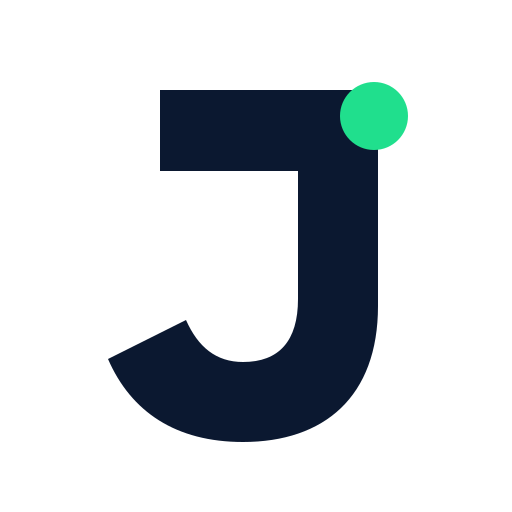
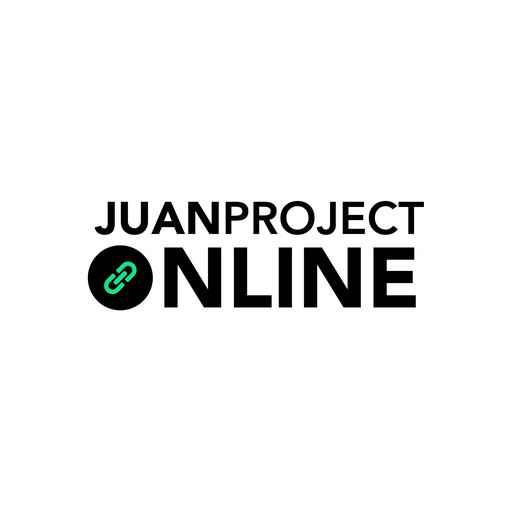
Patch: client portal, deliverables, branding, shop UI

Changed region(s): [[0.1562, 0.1562, 0.8438, 0.875]]

diff --git a/workspace/index.html b/workspace/index.html
@@ -949,6 +949,23 @@
       .catalog-manager-simple{display:block!important;width:100%;}
       .catalog-manager-simple .table-card{width:100%;margin-bottom:16px;}
       @media(max-width:900px){#view-pricelist .catalog-toolbar{align-items:stretch}.catalog-toolbar .toolbar-actions{flex-wrap:wrap}.catalog-toolbar #catalogManagerSearch{min-width:100%}}
+
+/* V1.3.3.2 data-flow patch: Shop table fixed geometry */
+#catalogServicesCard .table-responsive,#catalogPackagesCard .table-responsive{overflow:visible!important;width:100%!important}
+.catalog-services-table{width:100%!important;min-width:0!important;table-layout:fixed!important}
+.catalog-services-table th:nth-child(1),.catalog-services-table td:nth-child(1){width:10%!important}
+.catalog-services-table th:nth-child(2),.catalog-services-table td:nth-child(2){width:22%!important}
+.catalog-services-table th:nth-child(3),.catalog-services-table td:nth-child(3){width:20%!important}
+.catalog-services-table th:nth-child(4),.catalog-services-table td:nth-child(4){width:27%!important}
+.catalog-services-table th:nth-child(5),.catalog-services-table td:nth-child(5){width:13%!important;text-align:right!important}
+.catalog-services-table th:nth-child(6),.catalog-services-table td:nth-child(6){width:8%!important;text-align:center!important}
+.catalog-services-table td{min-width:0!important;max-width:none!important}
+.catalog-services-table .catalog-desc-cell{white-space:normal!important;overflow-wrap:anywhere!important}
+.portal-client-access-table{table-layout:fixed!important;width:100%!important}
+.portal-client-access-table th:nth-child(1){width:16%!important}.portal-client-access-table th:nth-child(2){width:29%!important}.portal-client-access-table th:nth-child(3){width:17%!important}.portal-client-access-table th:nth-child(4){width:14%!important}.portal-client-access-table th:nth-child(5){width:16%!important}.portal-client-access-table th:nth-child(6){width:8%!important}
+
+
+.workspace-skeleton-brand img[src*="workspace-master"]{width:150px!important;height:34px!important;object-fit:contain!important;object-position:left center!important}
 </style>
   <link rel="stylesheet" href="/css/v1-2-ux.css">
 
@@ -1076,7 +1093,7 @@
       <div id="workspaceLoadingSkeleton" class="workspace-loading-shell hidden" aria-live="polite" aria-busy="true" aria-label="Loading JUAN PROJECT Workspace">
         <div class="workspace-skeleton-layout">
           <aside class="workspace-skeleton-sidebar" aria-hidden="true">
-            <div class="workspace-skeleton-brand"><img src="/assets/brand/j-mark.svg" alt=""><span>JUAN PROJECT</span></div>
+            <div class="workspace-skeleton-brand"><img src="/assets/brand/juan-project-workspace-master.png" alt="JUAN PROJECT Workspace"></div>
             <div class="skeleton-bar skel w-70"></div><div class="skeleton-bar skel w-88"></div><div class="skeleton-bar skel w-76"></div><div class="skeleton-bar skel w-82"></div><div class="skeleton-bar skel w-64"></div>
             <div class="workspace-skeleton-side-spacer"></div>
             <div class="skeleton-bar skel w-72"></div><div class="skeleton-bar skel w-58"></div>
@@ -1259,15 +1276,15 @@
                   </div>
                   <div class="form-group">
                     <label class="form-label">Gmail / Email *</label>
-                    <input type="email" class="form-control" id="newClientEmail" placeholder="client@gmail.com">
+                    <input type="email" class="form-control" id="newClientEmail" list="juanEmailDomainSuggestions" placeholder="client@gmail.com">
                     <span id="newClientEmailError" class="inline-error"></span>
                   </div>
                   <div class="form-group">
-                    <label class="form-label">Phone Number</label>
+                    <label class="form-label">Phone Number <span class="text-muted">(Optional)</span></label>
                     <input type="text" class="form-control" id="newClientPhone" placeholder="+63 900 000 0000">
                   </div>
                   <div class="form-group">
-                    <label class="form-label">Address</label>
+                    <label class="form-label">Location <span class="text-muted">(Optional)</span></label>
                     <input type="text" class="form-control" id="newClientAddress" placeholder="City, Province">
                   </div>
                 </div>
@@ -1441,9 +1458,9 @@
               <div class="card-header"><div><div class="section-kicker">CLIENT</div><h3 class="card-title">Client Information</h3></div></div>
               <div class="project-data-form-grid">
                 <div class="form-group"><label class="form-label">Full Name</label><input class="form-control" id="projectDataClientName"></div>
-                <div class="form-group"><label class="form-label">Email Address</label><input type="email" class="form-control" id="projectDataClientEmail"></div>
-                <div class="form-group"><label class="form-label">Phone Number</label><input class="form-control" id="projectDataClientPhone"></div>
-                <div class="form-group"><label class="form-label">Address</label><input class="form-control" id="projectDataClientAddress"></div>
+                <div class="form-group"><label class="form-label">Email Address</label><input type="email" class="form-control" id="projectDataClientEmail" list="juanEmailDomainSuggestions"></div>
+                <div class="form-group"><label class="form-label">Phone Number <span class="text-muted">(Optional)</span></label><input class="form-control" id="projectDataClientPhone"></div>
+                <div class="form-group"><label class="form-label">Location <span class="text-muted">(Optional)</span></label><input class="form-control" id="projectDataClientAddress"></div>
               </div>
             </div>
 
@@ -1620,7 +1637,7 @@
           <div class="view-toolbar unified-toolbar portal-toolbar">
             <input id="onlinePortalAccountSearch" class="form-control" placeholder="Search client ID, name, or email…">
           </div>
-          <div class="card table-card"><div class="table-responsive"><table class="data-table unified-table portal-client-access-table"><thead><tr><th>Client ID</th><th>Client</th><th>Email</th><th>Portal Status</th><th>Password</th><th>Last Login</th><th>Actions</th></tr></thead><tbody id="onlinePortalAccountRows"></tbody></table></div></div>
+          <div class="card table-card"><div class="table-responsive"><table class="data-table unified-table portal-client-access-table"><thead><tr><th>Client ID</th><th>Email</th><th>Portal Status</th><th>Password</th><th>Last Login</th><th>Actions</th></tr></thead><tbody id="onlinePortalAccountRows"></tbody></table></div></div>
         </div>
         <div id="onlinePortalPaymentsPanel" class="portal-panel hidden">
           <div class="card portal-note"><strong>Payment Reviews</strong><span>Open a review to see the full payment details, receipt, verification results, and decision controls.</span></div>
@@ -1843,16 +1860,16 @@
         </div>
         <div class="form-group">
           <label class="form-label">Email *</label>
-          <input type="email" class="form-control" id="editClientEmail" placeholder="client@gmail.com">
+          <input type="email" class="form-control" id="editClientEmail" list="juanEmailDomainSuggestions" placeholder="client@gmail.com">
           <span id="editClientEmailError" class="inline-error"></span>
         </div>
         <div class="form-group">
-          <label class="form-label">Phone Number *</label>
+          <label class="form-label">Phone Number <span class="text-muted">(Optional)</span></label>
           <input type="text" class="form-control" id="editClientPhone" placeholder="+63 900 000 0000">
           <span id="editClientPhoneError" class="inline-error"></span>
         </div>
         <div class="form-group">
-          <label class="form-label">Address</label>
+          <label class="form-label">Location <span class="text-muted">(Optional)</span></label>
           <input type="text" class="form-control" id="editClientAddress" placeholder="City, Province">
         </div>
         <div class="form-group">
@@ -5200,7 +5217,7 @@ ${description}`))actionCallback();return;}
       async function syncDeliverablesToDatabase(project) {
         if (!supabaseClient || !state.isConnected || !project) return;
         const localRows = (Array.isArray(project.deliverables) ? project.deliverables : []).filter(d => !d.is_group);
-        const existingRes = await supabaseClient.from('deliverables').select('id,shared_drive_url,client_visible,due_date').eq('project_id', project.id);
+        const existingRes = await supabaseClient.from('deliverables').select('id,shared_drive_url,client_visible,due_date,source_type,order_item_id,order_item_occurrence,parent_id,parent_key,package_name,child_index').eq('project_id', project.id);
         const existing = new Map((existingRes.data || []).map(row => [String(row.id), row]));
         const del = await supabaseClient.from('deliverables').delete().eq('project_id', project.id);
         if (del.error) throw del.error;
@@ -5218,7 +5235,14 @@ ${description}`))actionCallback();return;}
             completed_at: d.completed_at || null,
             due_date: d.due_date || previous.due_date || project.deadline_date || null,
             shared_drive_url: d.shared_drive_url || previous.shared_drive_url || null,
-            client_visible: d.client_visible !== undefined ? d.client_visible !== false : previous.client_visible !== false
+            client_visible: d.client_visible !== undefined ? d.client_visible !== false : previous.client_visible !== false,
+            source_type: d.source_type || previous.source_type || null,
+            order_item_id: d.order_item_id || previous.order_item_id || null,
+            order_item_occurrence: Number(d.order_item_occurrence || previous.order_item_occurrence || 1),
+            parent_id: d.parent_id || previous.parent_id || null,
+            parent_key: d.parent_key || previous.parent_key || null,
+            package_name: d.package_name || previous.package_name || null,
+            child_index: d.child_index === undefined || d.child_index === null ? (previous.child_index ?? null) : Number(d.child_index)
           };
         });
         const inserted = await supabaseClient.from('deliverables').insert(rows);
@@ -5723,6 +5747,19 @@ ${description}`))actionCallback();return;}
       let projectDataAutosaveBusy=false;
 
       function normalizeProjectClientEmail(value){return String(value||'').trim().toLowerCase();}
+      const JUAN_EMAIL_DOMAINS=['gmail.com','deped.gov.ph'];
+      function updateEmailDomainSuggestions(input){
+        const list=document.getElementById('juanEmailDomainSuggestions');if(!list||!input)return;
+        const raw=String(input.value||'').trim().toLowerCase();
+        const at=raw.indexOf('@');const local=(at>=0?raw.slice(0,at):raw).replace(/\s+/g,'');const typedDomain=at>=0?raw.slice(at+1):'';
+        if(!local){list.innerHTML='';return;}
+        const domains=JUAN_EMAIL_DOMAINS.filter(domain=>!typedDomain||domain.startsWith(typedDomain));
+        list.innerHTML=domains.map(domain=>`<option value="${escapeHtml(local+'@'+domain)}"></option>`).join('');
+      }
+      function bindEmailDomainSuggestions(){
+        ['newClientEmail','editClientEmail','projectDataClientEmail'].forEach(id=>{const input=document.getElementById(id);if(!input||input.dataset.domainSuggestBound)return;input.dataset.domainSuggestBound='1';input.setAttribute('list','juanEmailDomainSuggestions');input.addEventListener('input',()=>updateEmailDomainSuggestions(input));input.addEventListener('focus',()=>updateEmailDomainSuggestions(input));input.addEventListener('blur',()=>{input.value=String(input.value||'').trim().toLowerCase();});});
+      }
+
       function validProjectClientEmail(value){const v=String(value||'').trim();return !v||/^[^\s@]+@[^\s@]+\.[^\s@]+$/.test(v);}
       function nextLocalClientCode(){const max=(state.clients||[]).reduce((m,c)=>Math.max(m,Number(String(c.client_code||'').match(/(\d+)$/)?.[1]||0)),0);return `CL-${String(max+1).padStart(3,'0')}`;}
       function getProjectClientRecord(proj){
@@ -5894,7 +5931,7 @@ ${description}`))actionCallback();return;}
         const norm=v=>String(v||'').trim().toLowerCase();
         const oldByKey=new Map();old.forEach(d=>{const key=[d.order_item_id||'',d.order_item_occurrence||1,d.parent_key||'',norm(d.item_name||d.name)].join('|');if(!oldByKey.has(key))oldByKey.set(key,d)});
         const fresh=[];
-        const make=(item,occ,name,extra={})=>{const key=[item.id,occ,extra.parent_key||'',norm(name)].join('|'),prev=oldByKey.get(key);return {...(prev||{}),id:prev?.id||`del_${proj.id}_${Date.now()}_${Math.random().toString(36).slice(2,7)}`,item_name:name,name,source_type:'ORDER_ITEM',order_item_id:item.id,order_item_occurrence:occ,completed:!!prev?.completed,progress:prev?.completed?100:Number(prev?.progress||0),status:prev?.completed?'Completed':'Pending',completed_at:prev?.completed_at||null,...extra};};
+        const make=(item,occ,name,extra={})=>{const key=[item.id,occ,extra.parent_key||'',norm(name)].join('|'),prev=oldByKey.get(key);return {...(prev||{}),id:prev?.id||`del_${String(proj.id).replace(/[^a-zA-Z0-9_-]/g,'_')}_${String(item.id).replace(/[^a-zA-Z0-9_-]/g,'_')}_${occ}_${String(extra.parent_key||name).toLowerCase().replace(/[^a-z0-9]+/g,'_').replace(/^_|_$/g,'').slice(0,42)}`,item_name:name,name,source_type:'ORDER_ITEM',order_item_id:item.id,order_item_occurrence:occ,completed:!!prev?.completed,progress:prev?.completed?100:Number(prev?.progress||0),status:prev?.completed?'Completed':'Pending',completed_at:prev?.completed_at||null,...extra};};
         items.forEach((item,itemIndex)=>{
           if(!item.id)item.id=`oi_${proj.id}_${Date.now()}_${itemIndex}_${Math.random().toString(36).slice(2,6)}`;
           const qty=Math.max(1,Math.round(Number(item.qty||1))),isPackage=String(item.type||'').toUpperCase()==='PACKAGE';
@@ -6498,8 +6535,8 @@ ${description}`))actionCallback();return;}
           emailInput.classList.add("is-invalid");
           valid = false;
         }
-        if (!phone) {
-          errPhone.innerText = "Phone number is required.";
+        if (phone && !/^[\+\d\s\-\(\)]+$/.test(phone)) {
+          errPhone.innerText = "Please enter a valid phone number or leave it blank.";
           phoneInput.classList.add("is-invalid");
           valid = false;
         }
@@ -6542,15 +6579,30 @@ ${description}`))actionCallback();return;}
         state.projects.forEach(p => {
           if (p.client_id === clientId) {
             p.client_name = name;
-            p.client_email = email;
+            p.client_email = normalizeClientIdentityEmail(email);
+            p.client_phone = phone || '';
+            p.client_address = address || '';
           }
         });
         persistProjectsState();
 
         if (supabaseClient && state.isConnected) {
           try {
-            const { error } = await supabaseClient.from('clients').update({ name, email: normalizeClientIdentityEmail(email), phone, address, notes }).eq('id', clientId);
+            const normalizedEmail = normalizeClientIdentityEmail(email);
+            const { error } = await supabaseClient.from('clients').update({ name, email: normalizedEmail, phone: phone || null, address: address || null, notes }).eq('id', clientId);
             if (error) throw error;
+            const linkedProjects = state.projects.filter(p => p.client_id === clientId);
+            for (const project of linkedProjects) {
+              const update = await supabaseClient.from('projects').update({client_name:name,client_email:normalizedEmail,client_phone:phone||null,client_address:address||null}).eq('id',project.id);
+              if (update.error) console.warn('Project client snapshot sync failed:', update.error);
+            }
+            try {
+              await onlinePortalRequest('POST',{action:'reconcile-client-profile',clientId,name,email:normalizedEmail,phone:phone||'',address:address||''});
+              state.onlinePortalData = null;
+              if (document.getElementById('view-online-portal')?.classList.contains('active')) loadOnlinePortalData(true);
+            } catch(portalError) {
+              console.warn('Portal client profile refresh failed:', portalError?.message||portalError);
+            }
           } catch(e) {
             console.error("Database operation failed while updating client:", e);
             showToast("Warning: Client changes were saved locally, but could not sync to the database.", "Retry", () => syncClientToDatabase(client));
@@ -6856,8 +6908,8 @@ ${description}`))actionCallback();return;}
           if(["temporary_password","active"].includes(x.status))actions.push(`<button class="popover-action portal-account-action" data-action="force-password-change" data-client="${escapeHtml(x.id)}">Force Password Change</button>`);
           if(["temporary_password","active","disabled"].includes(x.status))actions.push(`<button class="popover-action portal-account-action" data-action="reset-client-temporary-password" data-client="${escapeHtml(x.id)}">Reset Temporary Password</button>`);
           if(x.auth_user_id&&x.status!=="archived")actions.push(`<button class="popover-action portal-account-action ${x.status==="disabled"?"":"text-danger"}" data-action="set-client-access" data-enabled="${x.status==="disabled"?"true":"false"}" data-client="${escapeHtml(x.id)}">${x.status==="disabled"?"Enable Access":"Disable Access"}</button>`);
-          return `<tr><td><strong>${escapeHtml(x.client_code||"—")}</strong></td><td><strong class="portal-responsive-text">${escapeHtml(x.name||"—")}</strong></td><td><span class="portal-responsive-text">${escapeHtml(x.email||"—")}</span></td><td><span class="portal-status ${cls}">${escapeHtml(label)}</span></td><td>${x.password_set?"Changed":"Temporary"}</td><td>${escapeHtml(portalDate(x.last_sign_in_at))}</td><td class="table-row-actions"><div class="popover-wrap" id="${menuId}"><button class="icon-more-button vertical-more" onclick="app.togglePopover('${menuId}',event)" aria-label="Client access actions">⋮</button><div class="popover-panel client-row-menu">${actions.join("")||'<span class="popover-empty">No actions</span>'}</div></div></td></tr>`;
-        }).join("")||`<tr><td colspan="7" class="text-center text-muted">No matching clients.</td></tr>`;
+          return `<tr><td><strong>${escapeHtml(x.client_code||"—")}</strong></td><td><span class="portal-responsive-text">${escapeHtml(x.email||"—")}</span></td><td><span class="portal-status ${cls}">${escapeHtml(label)}</span></td><td>${x.password_set?"Changed":"Temporary"}</td><td>${escapeHtml(portalDate(x.last_sign_in_at))}</td><td class="table-row-actions"><div class="popover-wrap" id="${menuId}"><button class="icon-more-button vertical-more" onclick="app.togglePopover('${menuId}',event)" aria-label="Client access actions">⋮</button><div class="popover-panel client-row-menu">${actions.join("")||'<span class="popover-empty">No actions</span>'}</div></div></td></tr>`;
+        }).join("")||`<tr><td colspan="6" class="text-center text-muted">No matching clients.</td></tr>`;
 
         const clientMap=new Map((data.clients||[]).map(x=>[String(x.id),x]));
         const projectMap=new Map((data.projects||[]).map(x=>[String(x.id),x]));
@@ -7134,7 +7186,7 @@ ${description}`))actionCallback();return;}
     document.addEventListener("DOMContentLoaded", () => {
       app.initWorkspace();
       if('serviceWorker' in navigator){window.addEventListener('load',()=>navigator.serviceWorker.register('/sw.js').catch(err=>console.warn('Workspace offline cache unavailable:',err?.message||err)));}
-      setTimeout(()=>{refreshSearchableSelects(document);if(location.hash==="#online-portal")app.navigateTo("online-portal");},60);
+      setTimeout(()=>{refreshSearchableSelects(document);bindEmailDomainSuggestions();if(location.hash==="#online-portal")app.navigateTo("online-portal");},60);
       
       document.addEventListener("click", (e) => {
         if (!e.target.closest("#orderClientTypeahead")) app.hideClientSuggestions();
@@ -7374,6 +7426,7 @@ ${description}`))actionCallback();return;}
 /* V1.3.3.2 invoice brand clipping fix */
 .invoice-brand-img{display:block;width:220px;max-width:100%;height:auto;object-fit:contain;object-position:left center;overflow:visible}.invoice-header>div:first-child{min-width:0;overflow:visible}
 </style>
+<datalist id="juanEmailDomainSuggestions"></datalist>
 </body>
 </html>
 <style id="v111-maintenance-patch">

diff --git a/online/index.html b/online/index.html
@@ -1,1 +1,1 @@
-<!doctype html><html lang="en"><head><meta charset="utf-8"><meta name="viewport" content="width=device-width,initial-scale=1,viewport-fit=cover"><meta name="theme-color" content="#ffffff"><title>JUAN PROJECT Online</title><link rel="icon" href="/assets/favicon.ico" sizes="any"><link rel="icon" type="image/png" sizes="32x32" href="/assets/favicon-32.png"><link rel="apple-touch-icon" href="/assets/apple-touch-icon.png"><link rel="manifest" href="/manifest.webmanifest"><style>html,body{margin:0;min-height:100%;background:#f7faf8;font-family:Inter,-apple-system,BlinkMacSystemFont,"Segoe UI",sans-serif}#root{min-height:100dvh}.jp-boot-shell{min-height:100dvh;padding:20px;box-sizing:border-box;background:#f7faf8}.jp-boot-skeleton{width:min(1160px,100%);margin:0 auto;display:grid;gap:18px}.jp-boot-top{display:flex;align-items:center;justify-content:space-between;gap:16px;padding:4px 0}.jp-boot-brand{display:flex;align-items:center;gap:9px;font-size:11px;font-weight:850;letter-spacing:.05em;color:#26322d}.jp-boot-brand img{width:29px;height:29px;object-fit:contain}.jp-boot-avatar{width:36px;height:36px;border-radius:50%}.jp-boot-hero,.jp-boot-card,.jp-boot-list{background:#fff;border:1px solid rgba(17,24,39,.06);border-radius:18px}.jp-boot-hero{padding:22px;display:grid;gap:11px}.jp-boot-line{height:13px;border-radius:6px}.jp-boot-line.thin{height:9px}.jp-boot-grid{display:grid;grid-template-columns:repeat(3,minmax(0,1fr));gap:12px}.jp-boot-card{min-height:104px;padding:16px;display:grid;align-content:start;gap:14px}.jp-boot-value{width:46%;height:26px;border-radius:8px}.jp-boot-content{display:grid;grid-template-columns:minmax(0,1.25fr) minmax(280px,.75fr);gap:14px}.jp-boot-list{padding:17px;display:grid;gap:13px}.jp-boot-list-row{display:grid;grid-template-columns:42px 1fr auto;gap:11px;align-items:center}.jp-boot-list-row i{width:42px;height:42px;border-radius:12px}.jp-boot-list-row span{height:11px;border-radius:6px}.jp-boot-list-row b{width:64px;height:22px;border-radius:999px}.jp-skel{position:relative;overflow:hidden;background:#edf2ef!important}.jp-skel:after{content:"";position:absolute;inset:0;transform:translateX(-100%);background:linear-gradient(90deg,transparent,rgba(255,255,255,.82),transparent);animation:jpskeleton 1.35s ease-in-out infinite}.w92{width:92%}.w74{width:74%}.w68{width:68%}.w55{width:55%}.w44{width:44%}.w34{width:34%}@keyframes jpskeleton{100%{transform:translateX(100%)}}@media(max-width:760px){.jp-boot-shell{padding:15px}.jp-boot-grid{grid-template-columns:1fr 1fr}.jp-boot-content{grid-template-columns:1fr}.jp-boot-grid .jp-boot-card:last-child{grid-column:1/-1}}@media(prefers-reduced-motion:reduce){.jp-skel:after{animation:none;display:none}}</style><link rel="preload" href="/css/app.css" as="style"><link rel="modulepreload" href="/js/app.js"><link rel="stylesheet" href="/css/app.css"><script defer src="https://cdn.jsdelivr.net/npm/@supabase/supabase-js@2/dist/umd/supabase.js"></script></head><body><div id="toast" class="toast"></div><div id="root"><div class="jp-boot-shell" aria-live="polite" aria-busy="true" aria-label="Loading JUAN PROJECT Online"><div class="jp-boot-skeleton" aria-hidden="true"><div class="jp-boot-top"><div class="jp-boot-brand"><img src="/assets/brand/j-mark.svg" alt=""><span>JUAN PROJECT ONLINE</span></div><div class="jp-boot-avatar jp-skel"></div></div><div class="jp-boot-hero"><div class="jp-boot-line jp-skel w34"></div><div class="jp-boot-line jp-skel w68"></div><div class="jp-boot-line thin jp-skel w44"></div></div><div class="jp-boot-grid"><div class="jp-boot-card"><div class="jp-boot-line thin jp-skel w55"></div><div class="jp-boot-value jp-skel"></div></div><div class="jp-boot-card"><div class="jp-boot-line thin jp-skel w44"></div><div class="jp-boot-value jp-skel"></div></div><div class="jp-boot-card"><div class="jp-boot-line thin jp-skel w55"></div><div class="jp-boot-value jp-skel"></div></div></div><div class="jp-boot-content"><div class="jp-boot-list"><div class="jp-boot-line jp-skel w34"></div><div class="jp-boot-list-row"><i class="jp-skel"></i><span class="jp-skel w92"></span><b class="jp-skel"></b></div><div class="jp-boot-list-row"><i class="jp-skel"></i><span class="jp-skel w74"></span><b class="jp-skel"></b></div><div class="jp-boot-list-row"><i class="jp-skel"></i><span class="jp-skel w68"></span><b class="jp-skel"></b></div></div><div class="jp-boot-list"><div class="jp-boot-line jp-skel w44"></div><div class="jp-boot-line jp-skel w92"></div><div class="jp-boot-line jp-skel w74"></div><div class="jp-boot-line jp-skel w55"></div></div></div></div></div></div><script type="module" src="/js/app.js"></script><script>if("serviceWorker" in navigator){window.addEventListener("load",()=>navigator.serviceWorker.register("/sw.js").catch(()=>{}));}</script></body></html>
+<!doctype html><html lang="en"><head><meta charset="utf-8"><meta name="viewport" content="width=device-width,initial-scale=1,viewport-fit=cover"><meta name="theme-color" content="#ffffff"><title>JUAN PROJECT Online</title><link rel="icon" href="/assets/favicon.ico" sizes="any"><link rel="icon" type="image/png" sizes="32x32" href="/assets/favicon-32.png"><link rel="apple-touch-icon" href="/assets/apple-touch-icon.png"><link rel="manifest" href="/manifest.webmanifest"><style>html,body{margin:0;min-height:100%;background:#f7faf8;font-family:Inter,-apple-system,BlinkMacSystemFont,"Segoe UI",sans-serif}#root{min-height:100dvh}.jp-boot-shell{min-height:100dvh;padding:20px;box-sizing:border-box;background:#f7faf8}.jp-boot-skeleton{width:min(1160px,100%);margin:0 auto;display:grid;gap:18px}.jp-boot-top{display:flex;align-items:center;justify-content:space-between;gap:16px;padding:4px 0}.jp-boot-brand{display:flex;align-items:center;gap:9px;font-size:11px;font-weight:850;letter-spacing:.05em;color:#26322d}.jp-boot-brand img{width:155px;height:34px;object-fit:contain;object-position:left center}.jp-boot-avatar{width:36px;height:36px;border-radius:50%}.jp-boot-hero,.jp-boot-card,.jp-boot-list{background:#fff;border:1px solid rgba(17,24,39,.06);border-radius:18px}.jp-boot-hero{padding:22px;display:grid;gap:11px}.jp-boot-line{height:13px;border-radius:6px}.jp-boot-line.thin{height:9px}.jp-boot-grid{display:grid;grid-template-columns:repeat(3,minmax(0,1fr));gap:12px}.jp-boot-card{min-height:104px;padding:16px;display:grid;align-content:start;gap:14px}.jp-boot-value{width:46%;height:26px;border-radius:8px}.jp-boot-content{display:grid;grid-template-columns:minmax(0,1.25fr) minmax(280px,.75fr);gap:14px}.jp-boot-list{padding:17px;display:grid;gap:13px}.jp-boot-list-row{display:grid;grid-template-columns:42px 1fr auto;gap:11px;align-items:center}.jp-boot-list-row i{width:42px;height:42px;border-radius:12px}.jp-boot-list-row span{height:11px;border-radius:6px}.jp-boot-list-row b{width:64px;height:22px;border-radius:999px}.jp-skel{position:relative;overflow:hidden;background:#edf2ef!important}.jp-skel:after{content:"";position:absolute;inset:0;transform:translateX(-100%);background:linear-gradient(90deg,transparent,rgba(255,255,255,.82),transparent);animation:jpskeleton 1.35s ease-in-out infinite}.w92{width:92%}.w74{width:74%}.w68{width:68%}.w55{width:55%}.w44{width:44%}.w34{width:34%}@keyframes jpskeleton{100%{transform:translateX(100%)}}@media(max-width:760px){.jp-boot-shell{padding:15px}.jp-boot-grid{grid-template-columns:1fr 1fr}.jp-boot-content{grid-template-columns:1fr}.jp-boot-grid .jp-boot-card:last-child{grid-column:1/-1}}@media(prefers-reduced-motion:reduce){.jp-skel:after{animation:none;display:none}}</style><link rel="preload" href="/css/app.css" as="style"><link rel="modulepreload" href="/js/app.js"><link rel="stylesheet" href="/css/app.css"><script defer src="https://cdn.jsdelivr.net/npm/@supabase/supabase-js@2/dist/umd/supabase.js"></script></head><body><div id="toast" class="toast"></div><div id="root"><div class="jp-boot-shell" aria-live="polite" aria-busy="true" aria-label="Loading JUAN PROJECT Online"><div class="jp-boot-skeleton" aria-hidden="true"><div class="jp-boot-top"><div class="jp-boot-brand"><img src="/assets/brand/juan-project-online-master.png" alt="JUAN PROJECT Online"></div><div class="jp-boot-avatar jp-skel"></div></div><div class="jp-boot-hero"><div class="jp-boot-line jp-skel w34"></div><div class="jp-boot-line jp-skel w68"></div><div class="jp-boot-line thin jp-skel w44"></div></div><div class="jp-boot-grid"><div class="jp-boot-card"><div class="jp-boot-line thin jp-skel w55"></div><div class="jp-boot-value jp-skel"></div></div><div class="jp-boot-card"><div class="jp-boot-line thin jp-skel w44"></div><div class="jp-boot-value jp-skel"></div></div><div class="jp-boot-card"><div class="jp-boot-line thin jp-skel w55"></div><div class="jp-boot-value jp-skel"></div></div></div><div class="jp-boot-content"><div class="jp-boot-list"><div class="jp-boot-line jp-skel w34"></div><div class="jp-boot-list-row"><i class="jp-skel"></i><span class="jp-skel w92"></span><b class="jp-skel"></b></div><div class="jp-boot-list-row"><i class="jp-skel"></i><span class="jp-skel w74"></span><b class="jp-skel"></b></div><div class="jp-boot-list-row"><i class="jp-skel"></i><span class="jp-skel w68"></span><b class="jp-skel"></b></div></div><div class="jp-boot-list"><div class="jp-boot-line jp-skel w44"></div><div class="jp-boot-line jp-skel w92"></div><div class="jp-boot-line jp-skel w74"></div><div class="jp-boot-line jp-skel w55"></div></div></div></div></div></div><script type="module" src="/js/app.js"></script><script>if("serviceWorker" in navigator){window.addEventListener("load",()=>navigator.serviceWorker.register("/sw.js").catch(()=>{}));}</script></body></html>

diff --git a/workspace/api/admin-portal.js b/workspace/api/admin-portal.js
@@ -35,10 +35,9 @@ async function getClientAccountSnapshot(svc){
   if(rolesRes.error)throw rolesRes.error;
   if(projectsRes.error)throw projectsRes.error;
 
-  // Client Accounts are project-derived: only clients currently referenced by a project
-  // are exposed/provisioned in JUAN PROJECT Online.
-  const activeClientIds=new Set((projectsRes.data||[]).map(x=>String(x.client_id||'')).filter(Boolean));
-  const projectClients=(clientsRes.data||[]).filter(c=>activeClientIds.has(String(c.id)));
+  // Client Directory is the source of truth for portal access. Every active client
+  // must appear here even before a project is linked (fixes missing mapped clients such as CL-012).
+  const projectClients=(clientsRes.data||[]).filter(c=>!c.archived_at);
   const portalByClient=new Map((portalRes.data||[]).map(x=>[String(x.client_id),x]));
   const authById=new Map(authUsers.map(u=>[u.id,u]));
   const authByEmail=new Map(authUsers.filter(u=>u.email).map(u=>[normEmail(u.email),u]));
@@ -360,6 +359,31 @@ export default async function handler(req,res){
 
     if(req.method!=='POST')return res.status(405).json({error:'Method not allowed'});
     const body=req.body||{};
+
+    if(body.action==='reconcile-client-profile'){
+      const clientId=String(body.clientId||'').trim();
+      if(!clientId)return res.status(400).json({error:'Client is required.'});
+      const current=await svc.from('clients').select('id,name,email,phone,address,client_code,archived_at').eq('id',clientId).maybeSingle();
+      if(current.error)throw current.error;
+      if(!current.data)return res.status(404).json({error:'Client not found.'});
+      const email=normEmail(body.email??current.data.email);
+      if(email&&!validEmail(email))return res.status(400).json({error:'Enter a valid email address.'});
+      const patch={
+        name:String(body.name??current.data.name??'').trim()||current.data.name,
+        email:email||null,
+        phone:String(body.phone||'').trim()||null,
+        address:String(body.address||'').trim()||null
+      };
+      const updated=await svc.from('clients').update(patch).eq('id',clientId).select('id,name,email,phone,address,client_code,archived_at').single();
+      if(updated.error)throw updated.error;
+      const snapshot=await getClientAccountSnapshot(svc);
+      let portalResult={status:'skipped',message:'Email is required before portal access can be linked.'};
+      if(validEmail(updated.data.email)){
+        try{portalResult=await provisionOneClient(svc,updated.data,snapshot,{refreshTemporary:false});}
+        catch(error){portalResult={status:'needs_setup',message:error?.message||'Portal link needs attention.'};}
+      }
+      return res.status(200).json({ok:true,client:updated.data,portalResult});
+    }
 
     if(body.action==='reconcile-project-client'){
       const result=await reconcileProjectClient(svc,body);

diff --git a/online/sw.js b/online/sw.js
@@ -1,5 +1,5 @@
 const CACHE='juan-online-v1.3.3.2-skeleton-loading1';
-const SHELL=['/','/index.html','/css/app.css','/js/app.js','/js/auth.js','/js/config.js','/js/data.js','/js/payments.js','/js/utils.js','/js/payment-institutions.js','/manifest.webmanifest','/assets/brand/j-mark.svg','/assets/brand/juan-project-online.svg','/assets/brand/juan-project.svg','/assets/icon-192.png','/assets/payment-institutions/bdo.png','/assets/payment-institutions/bpi.png','/assets/payment-institutions/gcash.png','/assets/payment-institutions/gotyme.png','/assets/payment-institutions/landbank.png','/assets/payment-institutions/maribank.png','/assets/payment-institutions/maya.png','/assets/payment-institutions/metrobank.png','/assets/payment-institutions/pnb.png','/assets/payment-institutions/unionbank.png','/assets/onboarding/onboarding-1.png','/assets/onboarding/onboarding-2.png','/assets/onboarding/onboarding-3.png'];
+const SHELL=['/','/index.html','/css/app.css','/js/app.js','/js/auth.js','/js/config.js','/js/data.js','/js/payments.js','/js/utils.js','/js/payment-institutions.js','/manifest.webmanifest','/assets/brand/j-mark.svg','/assets/brand/juan-project-online.svg','/assets/brand/juan-project.svg','/assets/brand/juan-project-online-master.png','/assets/icon-192.png','/assets/payment-institutions/bdo.png','/assets/payment-institutions/bpi.png','/assets/payment-institutions/gcash.png','/assets/payment-institutions/gotyme.png','/assets/payment-institutions/landbank.png','/assets/payment-institutions/maribank.png','/assets/payment-institutions/maya.png','/assets/payment-institutions/metrobank.png','/assets/payment-institutions/pnb.png','/assets/payment-institutions/unionbank.png','/assets/onboarding/onboarding-1.png','/assets/onboarding/onboarding-2.png','/assets/onboarding/onboarding-3.png'];
 self.addEventListener('install',e=>e.waitUntil(caches.open(CACHE).then(c=>c.addAll(SHELL)).then(()=>self.skipWaiting())));
 self.addEventListener('activate',e=>e.waitUntil(caches.keys().then(keys=>Promise.all(keys.filter(k=>k!==CACHE).map(k=>caches.delete(k)))).then(()=>self.clients.claim())));
 self.addEventListener('fetch',e=>{const r=e.request;if(r.method!=='GET')return;const u=new URL(r.url);if(u.origin!==self.location.origin)return;if(u.pathname.startsWith('/api/')){e.respondWith(fetch(r));return}if(r.mode==='navigate'){e.respondWith(fetch(r).then(resp=>{const copy=resp.clone();caches.open(CACHE).then(c=>c.put('/index.html',copy));return resp}).catch(()=>caches.match('/index.html')));return}e.respondWith(caches.match(r).then(c=>c||fetch(r).then(resp=>{if(resp.ok){const copy=resp.clone();caches.open(CACHE).then(cache=>cache.put(r,copy))}return resp})))})

diff --git a/workspace/sw.js b/workspace/sw.js
@@ -1,5 +1,5 @@
 const CACHE='juan-workspace-v1.3.3.2-skeleton-loading1';
-const SHELL=['/','/index.html','/css/v1-2-ux.css','/css/v1-3-ux.css','/js/v1-2-ux.js','/js/v1-3-ux.js','/assets/brand/j-mark.svg','/assets/brand/juan-project.svg','/assets/icon-192.png','/assets/payment-institutions/bdo.png','/assets/payment-institutions/bpi.png','/assets/payment-institutions/gcash.png','/assets/payment-institutions/gotyme.png','/assets/payment-institutions/landbank.png','/assets/payment-institutions/maribank.png','/assets/payment-institutions/maya.png','/assets/payment-institutions/metrobank.png','/assets/payment-institutions/pnb.png','/assets/payment-institutions/unionbank.png'];
+const SHELL=['/','/index.html','/css/v1-2-ux.css','/css/v1-3-ux.css','/js/v1-2-ux.js','/js/v1-3-ux.js','/assets/brand/j-mark.svg','/assets/brand/juan-project.svg','/assets/brand/juan-project-workspace-master.png','/assets/icon-192.png','/assets/payment-institutions/bdo.png','/assets/payment-institutions/bpi.png','/assets/payment-institutions/gcash.png','/assets/payment-institutions/gotyme.png','/assets/payment-institutions/landbank.png','/assets/payment-institutions/maribank.png','/assets/payment-institutions/maya.png','/assets/payment-institutions/metrobank.png','/assets/payment-institutions/pnb.png','/assets/payment-institutions/unionbank.png'];
 self.addEventListener('install',event=>event.waitUntil(caches.open(CACHE).then(c=>c.addAll(SHELL)).then(()=>self.skipWaiting())));
 self.addEventListener('activate',event=>event.waitUntil(caches.keys().then(keys=>Promise.all(keys.filter(k=>k!==CACHE).map(k=>caches.delete(k)))).then(()=>self.clients.claim())));
 self.addEventListener('fetch',event=>{

diff --git a/REQUESTED_PATCH_NOTES.md b/REQUESTED_PATCH_NOTES.md
@@ -1,0 +1,11 @@
+# JUAN PROJECT V1.3.3.2 — Requested Data Flow Patch
+
+- Package order items expand into individual deliverables and persist package/source linkage.
+- Client Access now uses the active Client Directory as its source, so clients such as CL-012 are not hidden solely because they lack a project link.
+- Client edits synchronize project snapshots and request portal-account reconciliation.
+- Approved Workspace/Online brand assets and app icons are used consistently.
+- Email fields suggest @gmail.com and @deped.gov.ph.
+- Phone number and location/address are optional, including legacy database rows.
+- Online Portal Client Access table removes the Client Name column.
+- Shop service table uses fixed full-width columns without internal scrolling/blank spacer area.
+- Migration: supabase/migrations/012_client_portal_deliverables_integrity.sql
